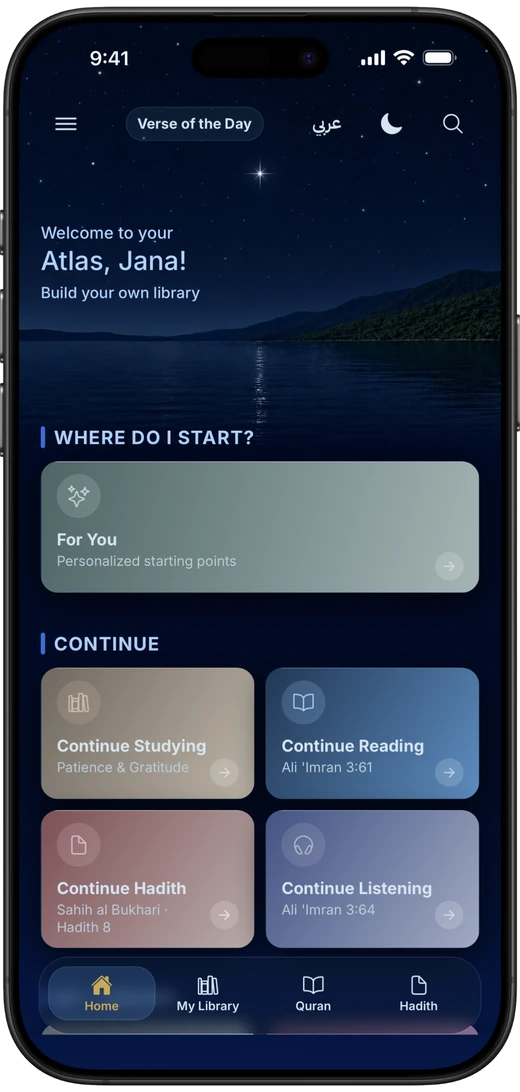
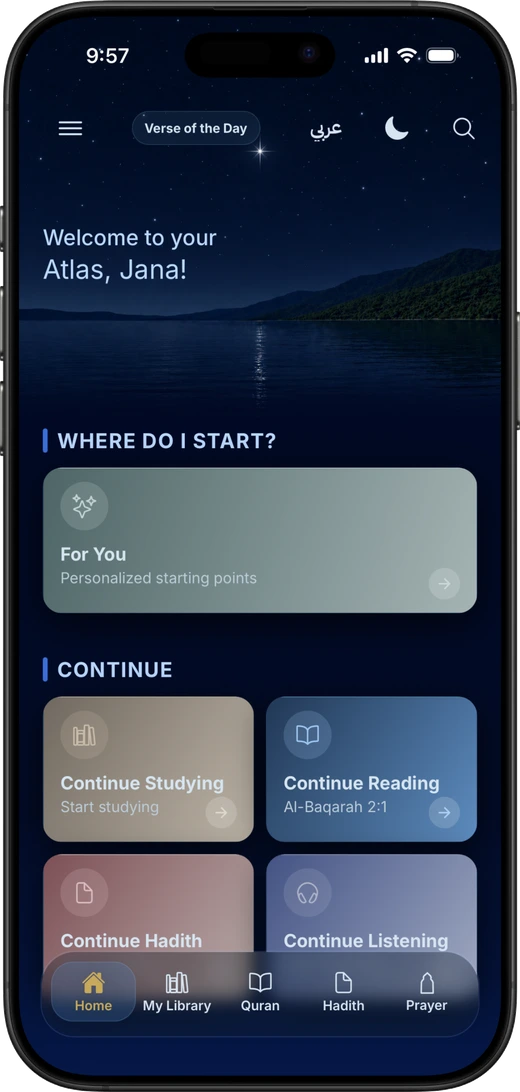
Add Prayer tab screenshots and privacy policy location disclosure
Replace the Prayer section's placeholder screenshots with real device
captures, and document the Prayer tab's use of device location
(foreground-only, on-device prayer-time/Qibla calculation, no
transmission or cloud backup) in the privacy policy.

diff --git a/quran-atlas/privacy.html b/quran-atlas/privacy.html
@@ -114,7 +114,7 @@ section.block { padding: 56px 0; }
       <span data-en>No accounts, no ads, and we never track what you read, search, bookmark, or study. Everything you create stays on your device, or in your own iCloud (iOS) or Google Drive (Android) account if you turn on backup.</span>
       <span data-ar>لا حسابات، ولا إعلانات، ولا نتتبّع أبدًا ما تقرؤه أو تبحث عنه أو تحفظه في الإشارات المرجعية أو تدرسه. كل ما تُنشئه يبقى على جهازك، أو في حساب iCloud الخاص بك (لنظام iOS) أو Google Drive (لنظام أندرويد) إن فعّلت النسخ الاحتياطي.</span>
     </p>
-    <p class="updated"><span data-en>Last updated: November 6, 2026</span><span data-ar>آخر تحديث: 6 نوفمبر 2026</span></p>
+    <p class="updated"><span data-en>Last updated: November 14, 2026</span><span data-ar>آخر تحديث: 14 نوفمبر 2026</span></p>
   </div>
 </section>
 
@@ -135,6 +135,16 @@ section.block { padding: 56px 0; }
          <span data-ar><strong>نحن لا نجمع أي معلومات شخصية.</strong> لا يتطلب أطلس القرآن حسابًا أو تسجيل دخول أو اشتراكًا من أي نوع.</span></p>
       <p><span data-en>Everything you create in the app — topics, bookmarks, collections, reference cards, notes, reflections, and custom categories — is stored locally on your device.</span>
          <span data-ar>كل ما تُنشئه داخل التطبيق — المواضيع، والإشارات المرجعية، والمجموعات، والبطاقات المرجعية، والملاحظات، والتأملات، والفئات المخصصة — يُحفظ محليًا على جهازك.</span></p>
+    </div>
+
+    <div class="policy-section">
+      <h2><span data-en>Location (Prayer Times &amp; Qibla)</span><span data-ar>الموقع (مواقيت الصلاة واتجاه القبلة)</span></h2>
+      <p><span data-en>If you use the Prayer tab, Quran Atlas asks for your device's location to calculate accurate prayer times and Qibla (Kaaba) direction for your current location. This permission is requested only when you choose to enable location from the Prayer tab — never automatically at app launch — and Quran Atlas uses location only while the app is in use. Quran Atlas does not request or use background location.</span>
+         <span data-ar>إذا استخدمت تبويب الصلاة، سيطلب أطلس القرآن الوصول إلى موقع جهازك لحساب مواقيت الصلاة واتجاه القبلة (الكعبة) بدقة لموقعك الحالي. يُطلب هذا الإذن فقط عندما تختار تفعيل الوصول إلى الموقع من تبويب الصلاة — ولا يُطلب تلقائيًا عند تشغيل التطبيق — ويستخدم أطلس القرآن الموقع فقط أثناء استخدام التطبيق. ولا يطلب أطلس القرآن أو يستخدم الموقع في الخلفية.</span></p>
+      <p><span data-en>Your location is used on your device to calculate prayer times and Qibla direction and to display a city name in the Prayer tab and related settings. Your location is stored locally on your device only, is excluded from iCloud Library Backup and Google Drive backup, and is never sent to our servers or included in Anonymous Usage Analytics.</span>
+         <span data-ar>يُستخدم موقعك على جهازك لحساب مواقيت الصلاة واتجاه القبلة، ولعرض اسم المدينة في تبويب الصلاة والإعدادات ذات الصلة. يُحفظ موقعك محليًا على جهازك فقط، ويُستثنى من النسخ الاحتياطي لمكتبة iCloud ومن النسخ الاحتياطي عبر Google Drive، ولا يُرسل أبدًا إلى خوادمنا ولا يُدرج ضمن تحليلات الاستخدام المجهولة.</span></p>
+      <p><span data-en>To display a city name instead of raw coordinates, Quran Atlas uses your device's available location services to translate your coordinates into a place name. Depending on your device and platform, this may involve Apple or Google location services. If you decline location access, or prefer not to grant it, you can manually choose a city from Quran Atlas's built-in list instead. Manual city selection works fully offline and does not use your device's location services.</span>
+         <span data-ar>لعرض اسم المدينة بدلًا من الإحداثيات، يستخدم أطلس القرآن خدمات الموقع المتاحة على جهازك لترجمة إحداثياتك إلى اسم مكان. وبحسب جهازك والمنصة المستخدمة، قد يتضمن ذلك خدمات الموقع من Apple أو Google. وإذا رفضت الوصول إلى الموقع، أو فضّلت عدم منحه، يمكنك اختيار مدينة يدويًا من القائمة المدمجة في أطلس القرآن بدلًا من ذلك. ويعمل اختيار المدينة يدويًا بشكل كامل دون اتصال بالإنترنت، ولا يستخدم خدمات الموقع على جهازك.</span></p>
     </div>
 
     <div class="policy-section">

diff --git a/quran-atlas/index.html b/quran-atlas/index.html
@@ -464,11 +464,9 @@ footer.site-footer .copyright { margin-top:20px; font-size:12px; color: var(--te
           <li><span data-en>Calculation settings including Asr juristic method, high-latitude rules, 12/24-hour format, and individual prayer-time adjustments</span><span data-ar>إعدادات الحساب، تشمل مذهب حساب العصر، وقواعد خطوط العرض العالية، وتنسيق الوقت 12/24 ساعة، وتعديلات فردية لكل وقت صلاة</span></li>
         </ul>
       </div>
-      <!-- No real screenshots yet — .shot-placeholder stands in until device
-           captures of the Prayer tab and Qibla screen are ready. -->
       <div class="sec-shot">
-        <div class="shot-placeholder"><span data-en>Screenshot coming soon — Prayer times &amp; countdown</span><span data-ar>لقطة شاشة قريبًا — أوقات الصلاة والعداد التنازلي</span></div>
-        <div class="shot-placeholder"><span data-en>Screenshot coming soon — Qibla direction</span><span data-ar>لقطة شاشة قريبًا — اتجاه القبلة</span></div>
+        <img class="shot-light" src="/quran-atlas/assets/img/screenshots/prayer-times-light.webp" width="200" height="434" loading="lazy" alt="Prayer tab Home screen showing the next-prayer countdown, Qibla direction card, and today's prayer times">
+        <img class="shot-dark" src="/quran-atlas/assets/img/screenshots/prayer-times-dark.webp" width="200" height="434" loading="lazy" alt="Prayer tab Home screen showing the next-prayer countdown, Qibla direction card, and today's prayer times">
       </div>
     </div>
   </div>
